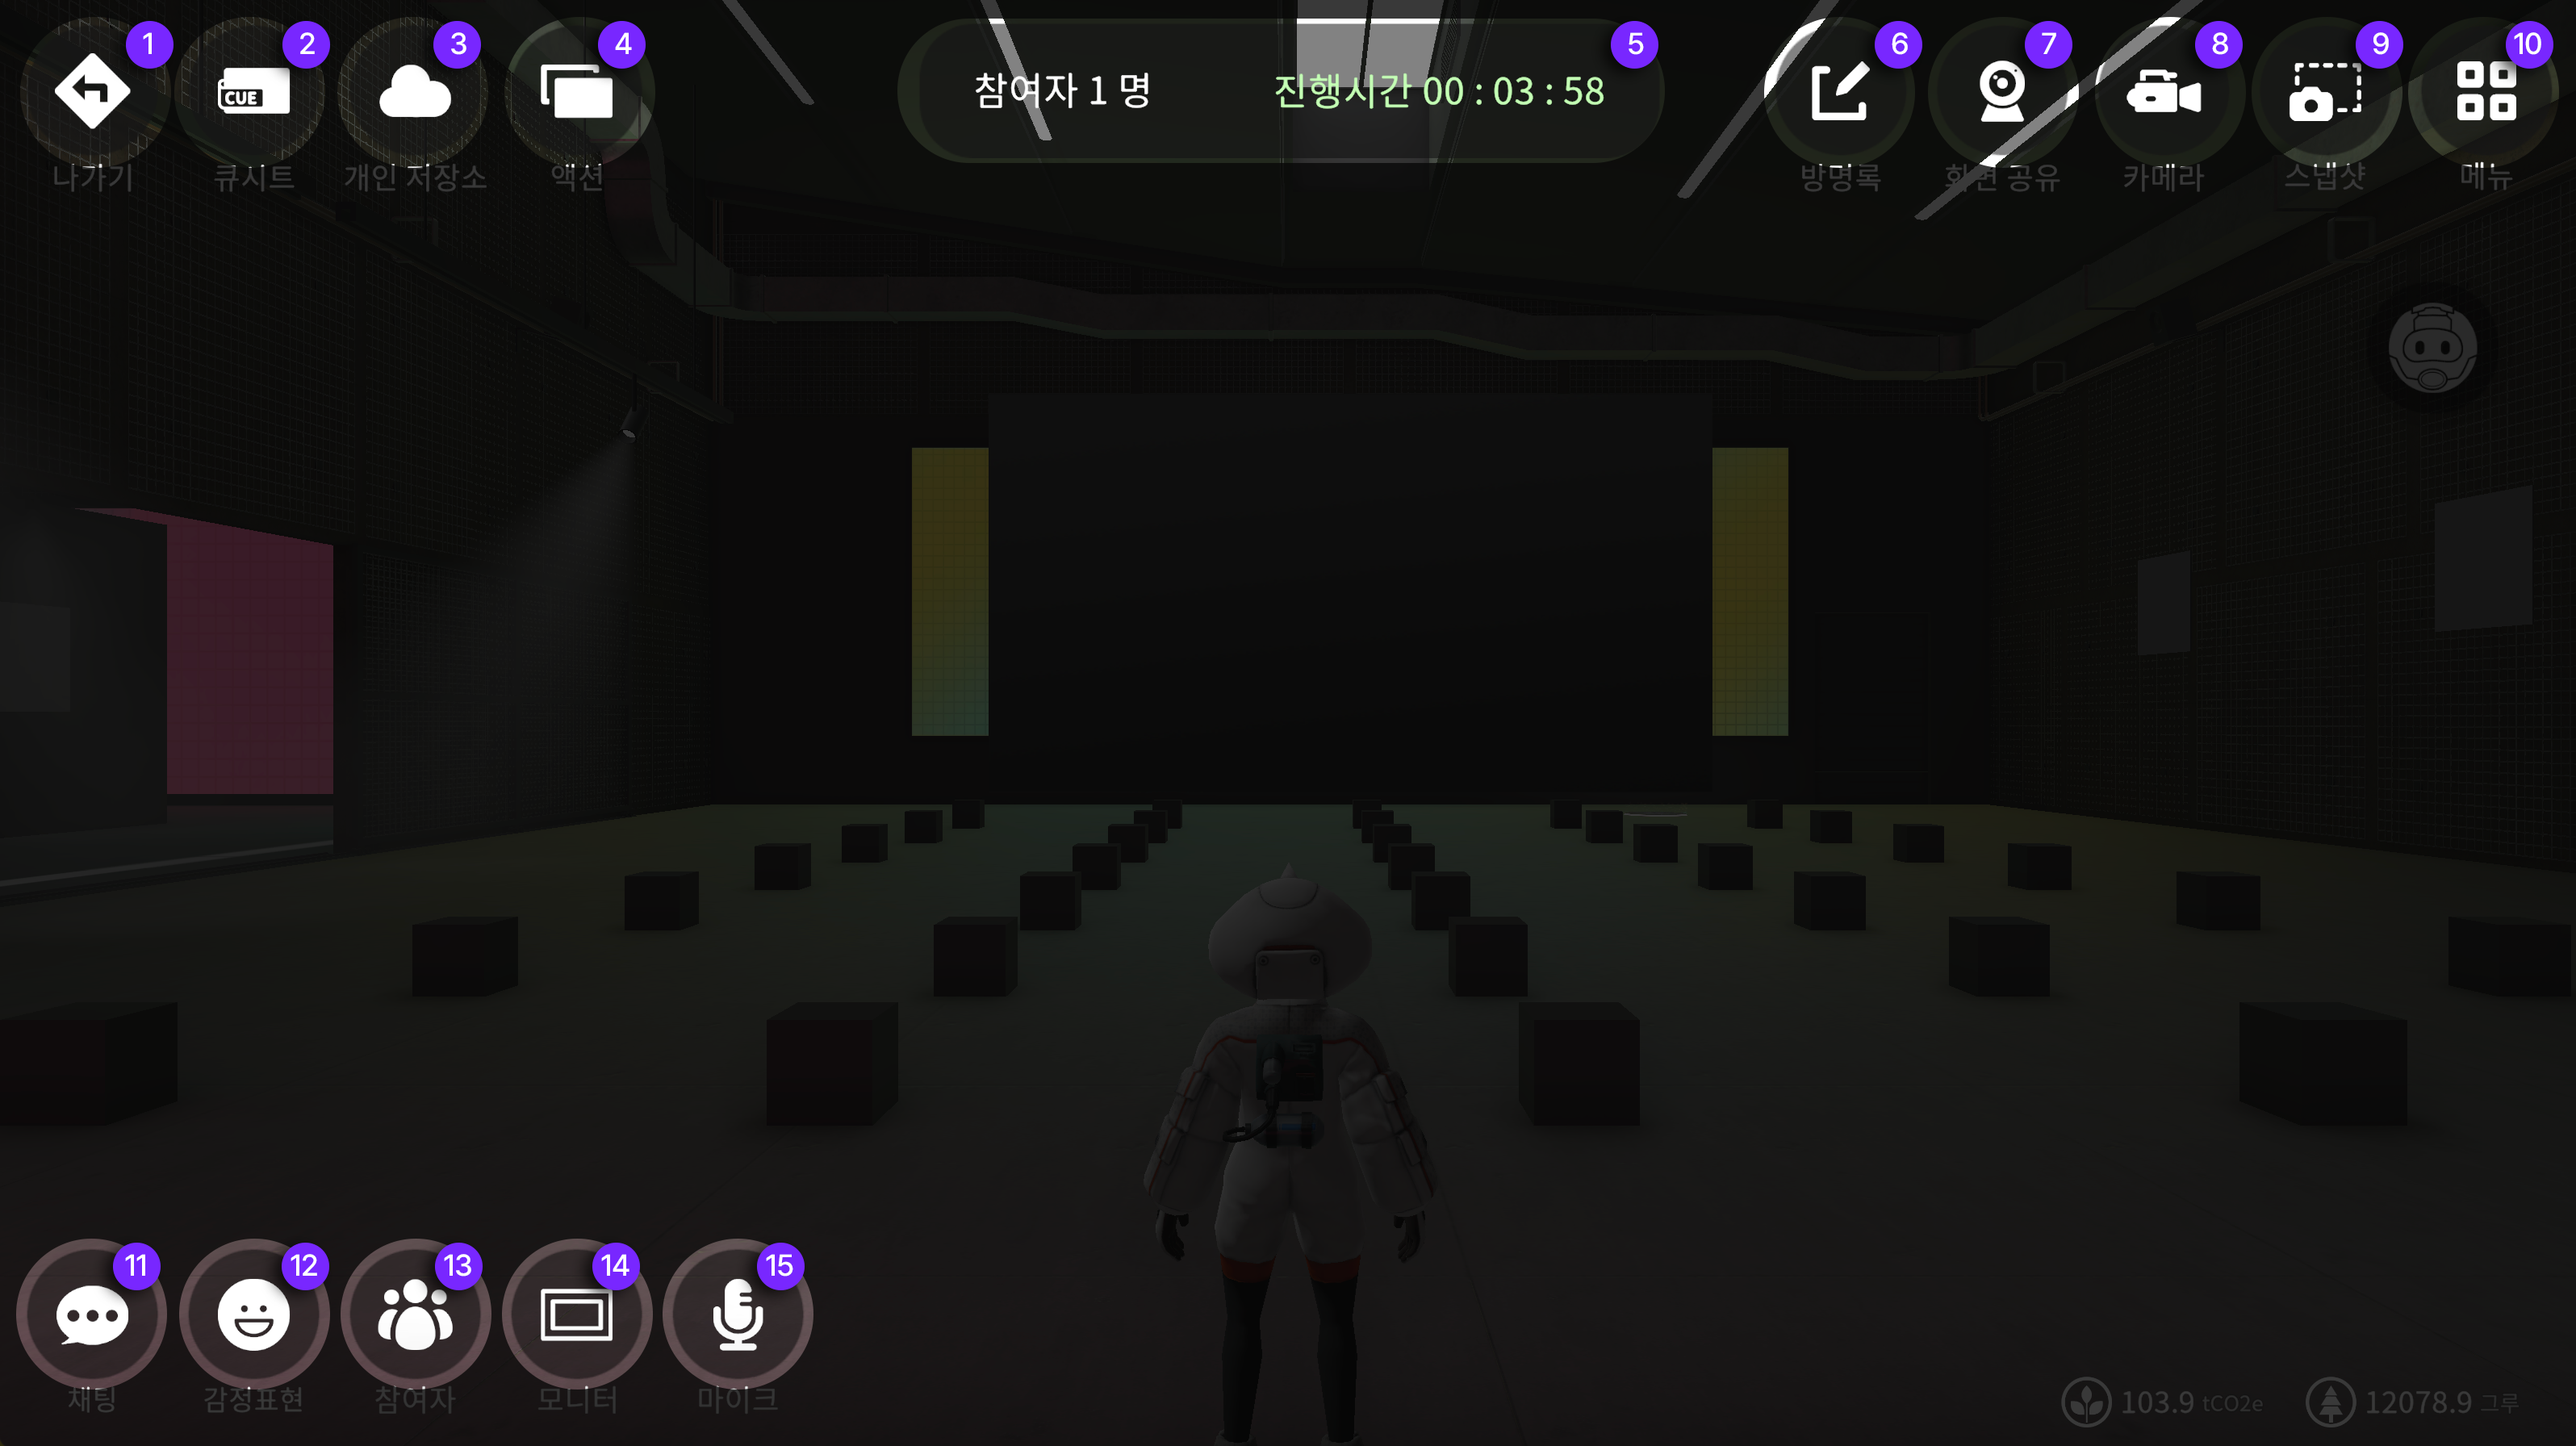
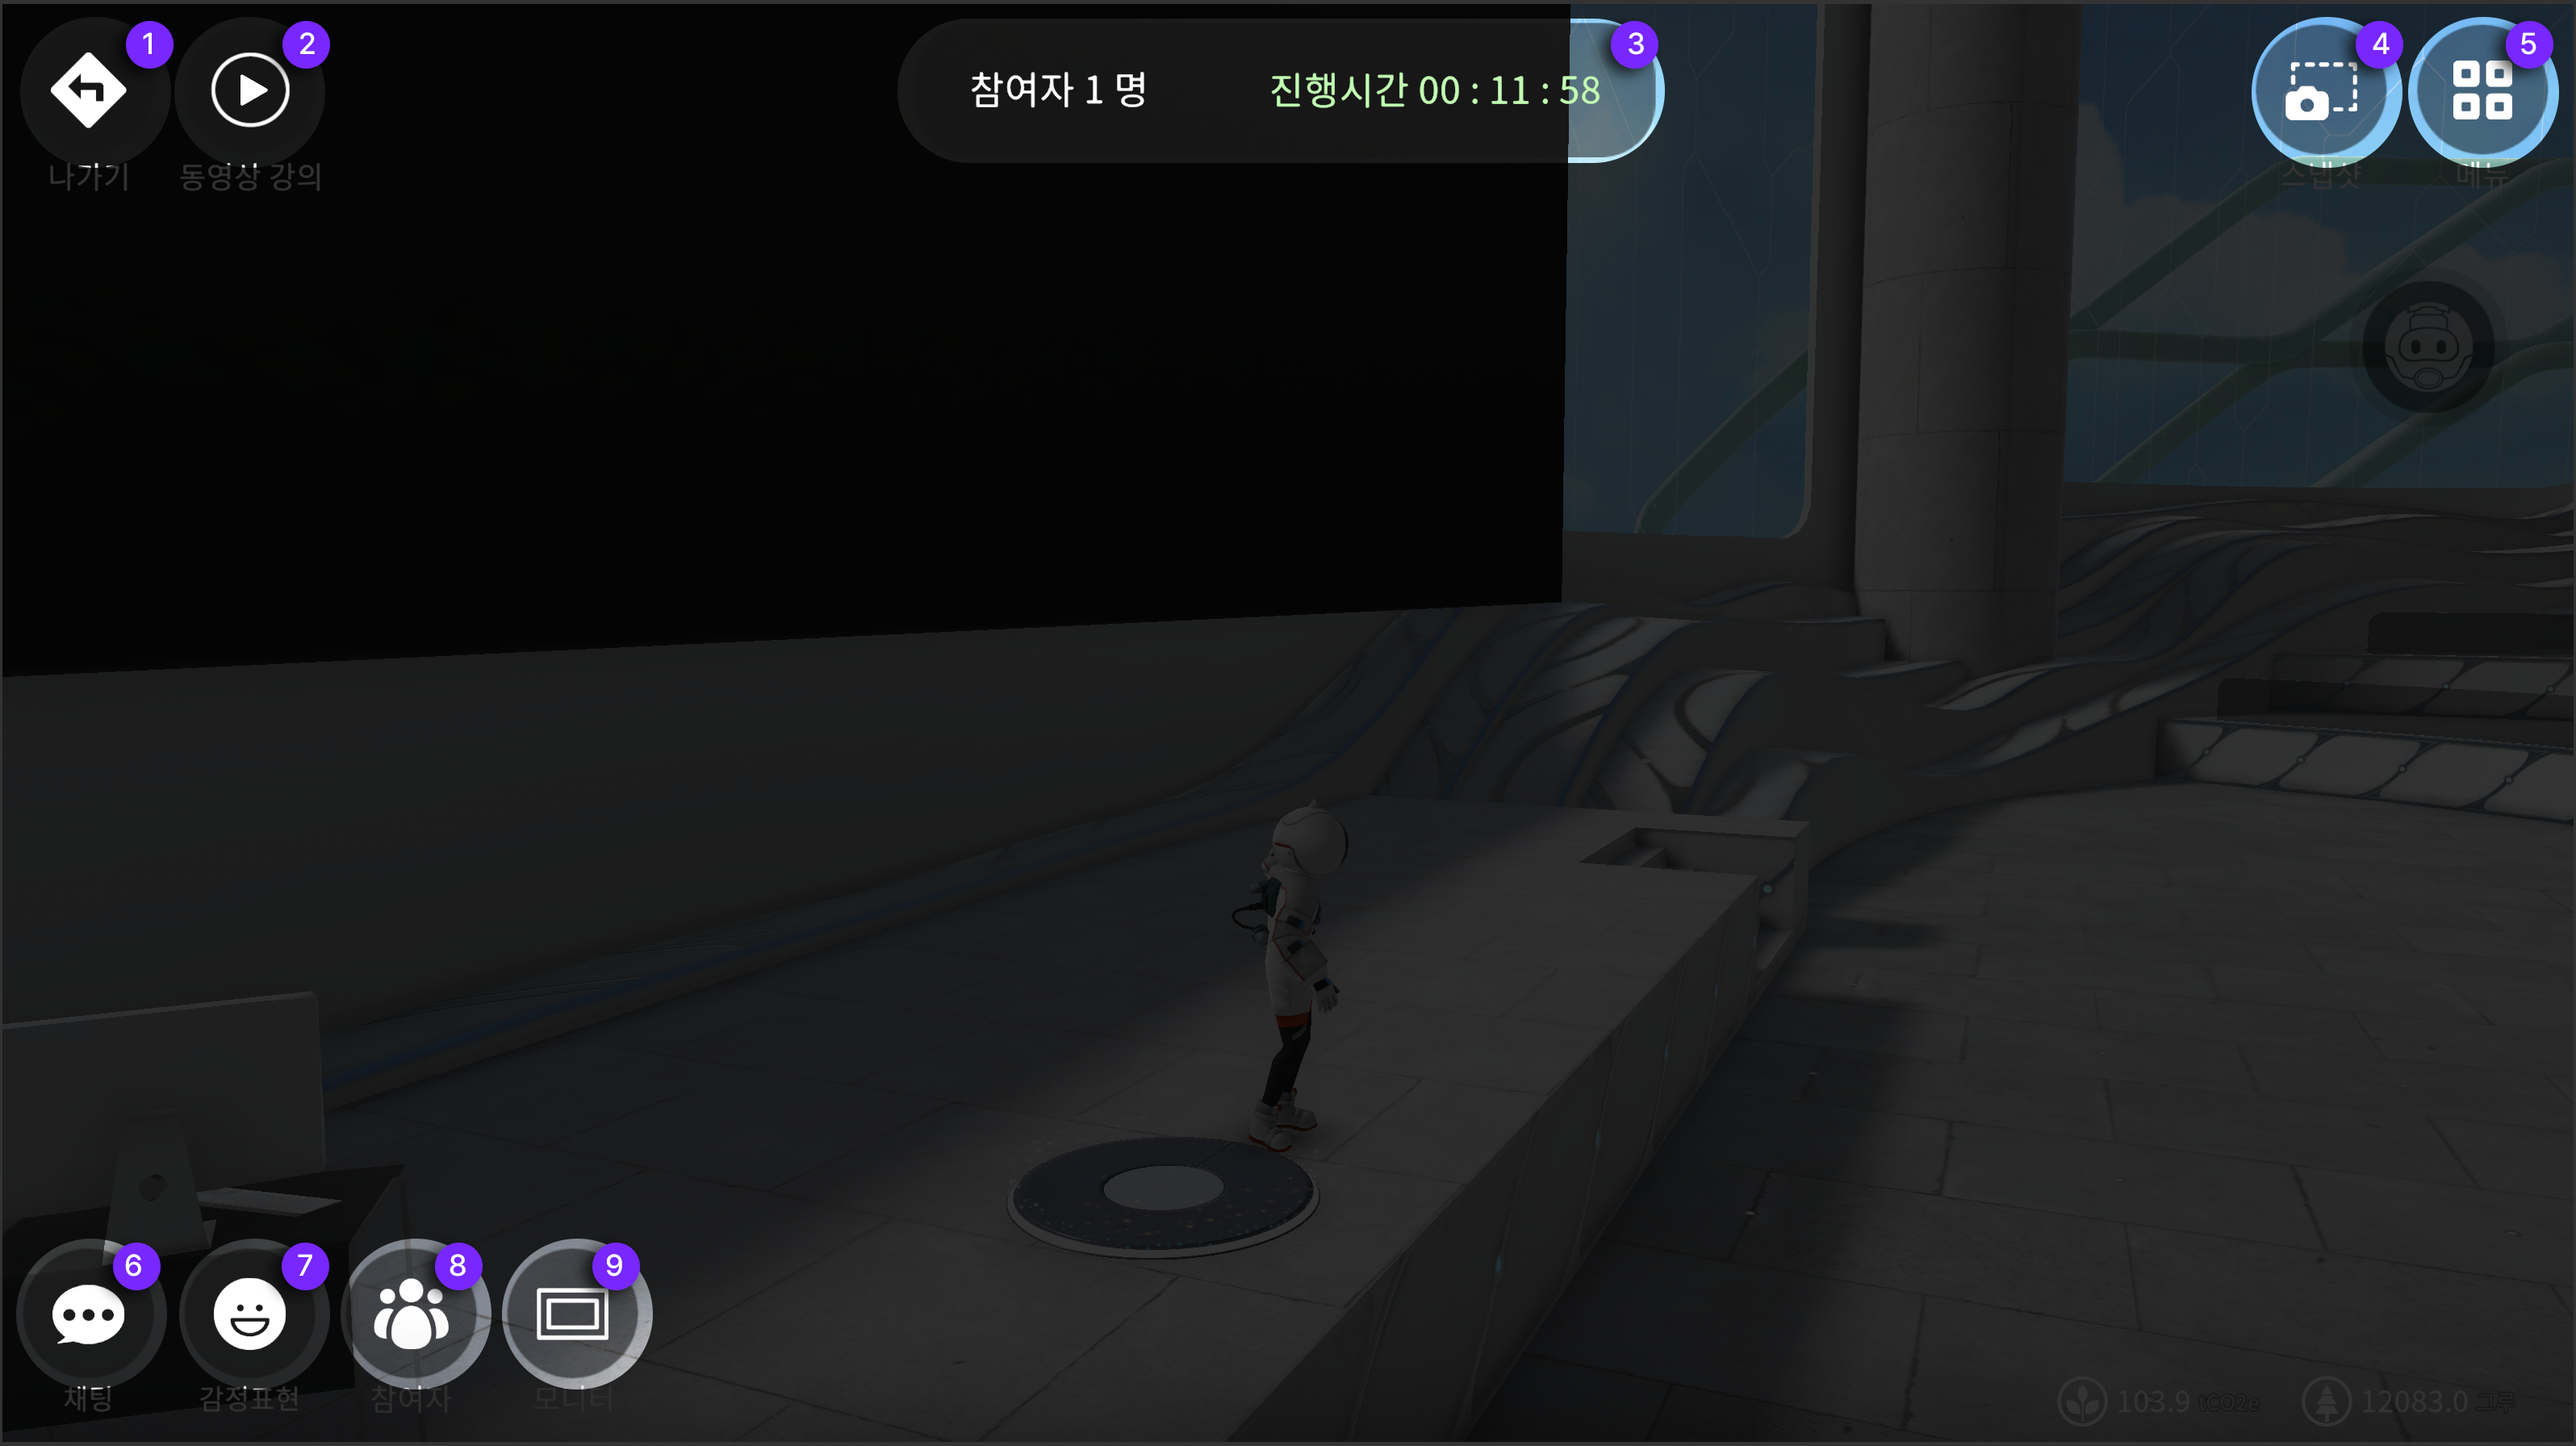
GITBOOK-58: No subject

diff --git a/undefined-1/undefined-5/undefined-1/undefined/vod.md b/undefined-1/undefined-5/undefined-1/undefined/vod.md
@@ -1,28 +1,27 @@
 # VOD 강의실 만들기
 
-VOD 강의실에서 동작 할 수 있는 액션은 다음과 같습니다
+VOD 강의실에서 동작 할 수 있는 기능은 다음과 같습니다
 
-액션에 대한 자세한 설명은[ 상세설명](../#undefined-1)을 참고해주세요
+<figure><img src="../../../../.gitbook/assets/스크린샷-2023-11-23-오후-12.29.58.png" alt=""><figcaption></figcaption></figure>
 
-{% hint style="info" %}
-해당 액션은 한 번만 진행할수도 있고 [**큐시트**](../../../undefined-3.md#undefined-2)를 적용하면 반복작업을 하지 않아도 편리하게 운영이 가능합니다
-{% endhint %}
+1. **나가기** 메타비티 나가기버튼입니다
+2. **동영상** 동영상강의를 등록하고 수정할 수 있는 버튼입니다&#x20;
+3. **메타비티 안내** 창 참여자와 진행시간을 확인 할 수 있는 창입니다&#x20;
+4. **스냅샷** 내 환경과 플레이 화면을 촬영 할 때 사용 할 수 있습니다
+5. **메뉴** 메뉴창을 볼 수 있습니다
+6. **채팅** 현재 위치해 있는 공간의 채팅창입니다
+7. **감정표현** 아바타의 모션으로 감정표현이 가능합니다
+8. **참여자** 참여자의 현황과 리스트 및 설정이 가능한 버튼입니다&#x20;
+9. **모니터** 송출할 내용의 모니터를 기준으로 확대와 판서기능이 가능한 버튼입니다
 
-<figure><img src="../../../../.gitbook/assets/스크린샷 2023-11-23 오후 2.07.13.png" alt=""><figcaption></figcaption></figure>
 
-**PDF 파일** 파일을 화면에 공유하여 설명할 수 있습니다&#x20;
 
-**동영상링크** 유튜브나 비메오의 링크를 복사하여 공유하며 설명할 수 있습니다 &#x20;
+## VOD 강의 등록하기
 
-**음악파일** 메타비티에서 BGM으로 재생할 수 있습니다
+{% embed url="https://youtu.be/lBcPEf-8wkE" %}
 
-**이미지파일** 이미지를 공유하여 설명할 수 있습니다&#x20;
-
-**공지사항** 메타비티 내 공지사항을 등록하여 적용할 수 있습니다&#x20;
-
-**공지사항** **링크** 메타비티 내 공지사항을 링크로 적용하여 화면에 적용할 수 있습니다&#x20;
-
-**360이미지** 메타비티 내 배경 화면을 360이미지를 적용하여 배경테마를 바꿀 수 있습니다&#x20;
-
-**3D 오브제** 3D 파일을 화면에 적용하여 참여자에게 시연 할 수 있습니다&#x20;
-
+1. VOD강의실에 입장합니다
+2. 왼쪽상단 두번째 **동영상강의 버튼**을 눌러주세요
+3. **강의명, 강의url을 입력**해주세요&#x20;
+4. **재생확인** **버튼**을 꼭 눌러주세요 ( 강의추가가 되지 않습니다 )&#x20;
+5. **강의추가** **버튼**을 눌러주세요&#x20;

diff --git a/undefined-1/undefined-5/undefined-1/README.md b/undefined-1/undefined-5/undefined-1/README.md
@@ -20,7 +20,7 @@ description: 메타비티 운영자 안내사항입니다
 
 ## 메타비티 진입 후, 운영용 메뉴설명
 
-<figure><img src="../../../.gitbook/assets/스크린샷-2023-11-23-오후-12.29.58.png" alt=""><figcaption><p><mark style="color:blue;"><strong>메타비티의 특성마다 기능이 다르기 때문에 메뉴 구성이 다를 수 있습니다</strong></mark></p></figcaption></figure>
+<figure><img src="../../../.gitbook/assets/스크린샷-2023-11-23-오후-12.29.58 (1).png" alt=""><figcaption><p><mark style="color:blue;"><strong>메타비티의 특성마다 기능이 다르기 때문에 메뉴 구성이 다를 수 있습니다</strong></mark></p></figcaption></figure>
 
 1. **나가기** 메타비티 나가기버튼입니다
 2. **큐시트** 메타비티에서 사용할 큐시트 작동 버튼입니다&#x20;
